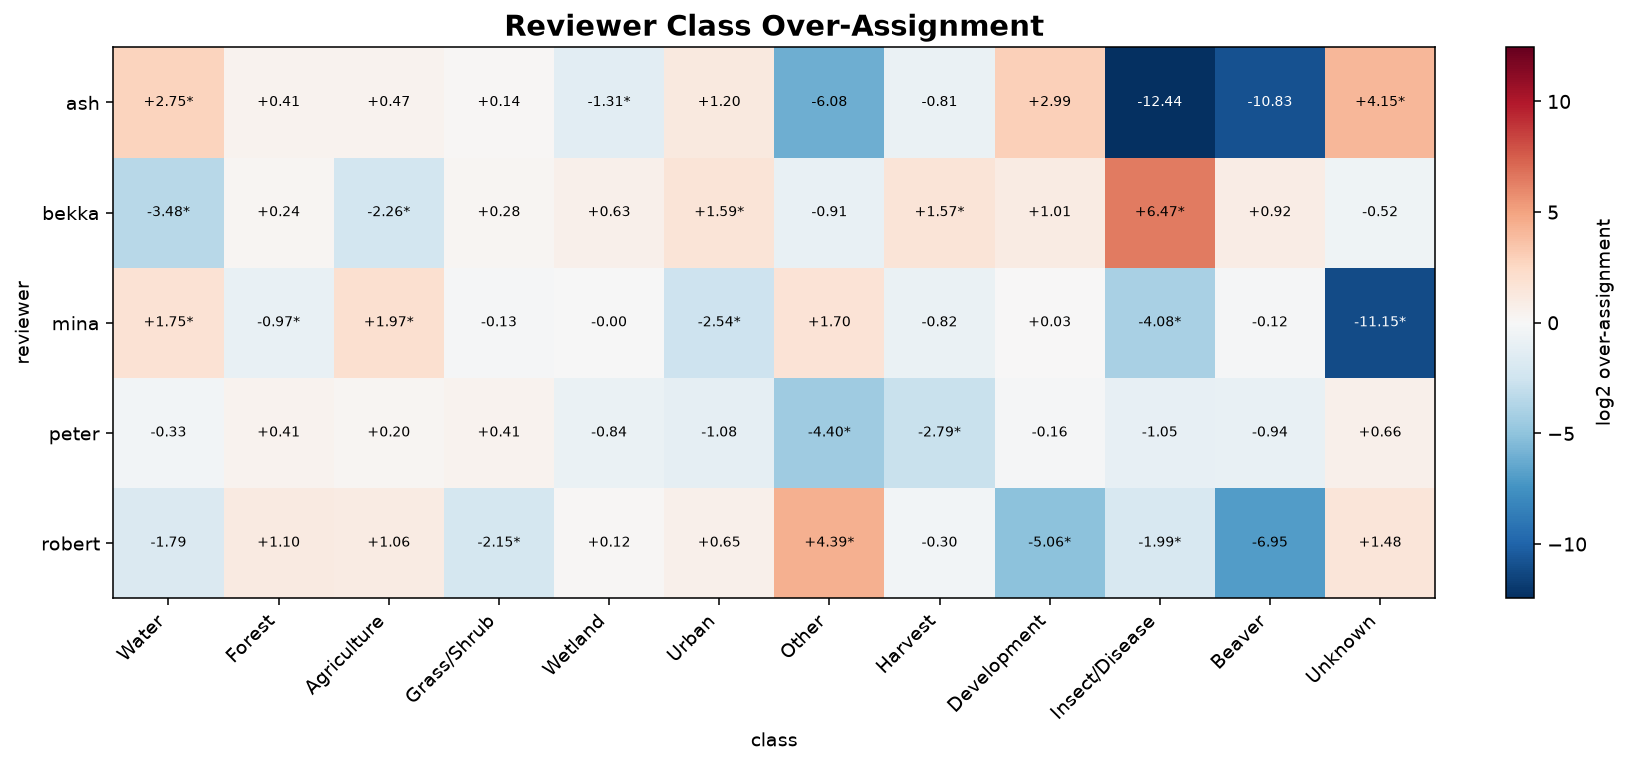
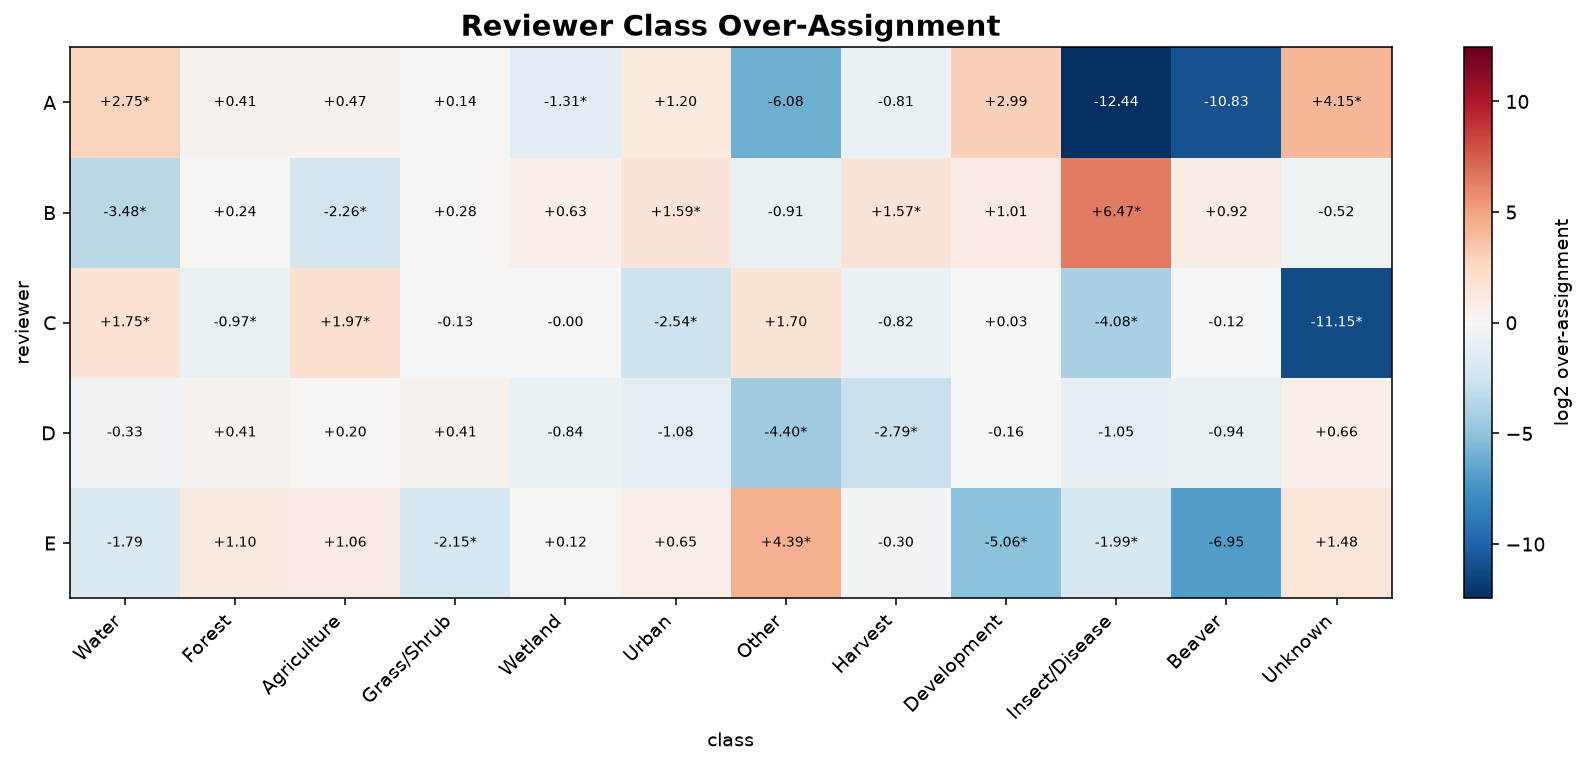
Combine figure 3.4 into a stacked A/B figure; anonymize reviewer heatmap
Combine the two disagreement-geometry panels into one stacked figure 3.4
(scripts/combine_figure_3_4.py): panel A (most contested class pairs) on top, panel
B (contested-patch area distribution) below, each labeled in the top-left corner.
The shape-complexity panel stays available as figure_3_4c. Wire the combine into
build_chapter3_named_figures.py and update the caption.

Anonymize the supplemental reviewer over-assignment heatmap: y-axis reviewer names
become letters A to E (alphabetical, matching figure 3.5's reviewer_letter_key.csv).

diff --git a/scripts/build_chapter3_named_figures.py b/scripts/build_chapter3_named_figures.py
@@ -67,7 +67,8 @@ SUPP = [
      "ten-class schema, with reliability thresholds at 0.50 and 0.70."),
     (f"{IA}/reviewer_overassignment_heatmap.png", "figure_S_reviewer_overassignment.png",
      "Heatmap of per-reviewer class over-assignment (diagnostic D4), showing which classes each "
-     "reviewer claims more or less than partners."),
+     "reviewer claims more or less than partners. Reviewers are anonymized to letters (see "
+     "reports/interpreter_agreement/geometry/reviewer_letter_key.csv)."),
     (f"{AB}/bias_vs_n_OA.png", "figure_S_bias_vs_n.png",
      "Mean sampled overall accuracy minus the census against sample size (v2, W=3), comparing simple "
      "random, stratified weighted, and stratified unweighted designs."),
@@ -152,11 +153,10 @@ MAIN_ORDER = [
      "b is the per-agent facets. The panels need manual assembly into one figure; they are not "
      "auto-composited."),
     ("3.3", ["figure_3_3_agreement_forest_5class.png"], ""),
-    ("3.4", ["figure_3_4a_contested_class_pairs.png", "figure_3_4b_area_ecdf.png",
-             "figure_3_4c_shape_index_ecdf.png"],
-     " Three-panel figure: panel a is the contested class pairs, panel b is the contested-patch area "
-     "ECDF, and panel c is the shape-index ECDF. The panels need manual assembly into one figure; "
-     "they are not auto-composited."),
+    ("3.4", ["figure_3_4_disagreement_geometry.png"],
+     " Combined two-panel figure (built by scripts/combine_figure_3_4.py): panel A is the most "
+     "contested class pairs, and panel B is the contested-patch area distribution. The "
+     "shape-complexity panel (figure_3_4c_shape_index_ecdf.png) is available separately."),
     ("3.5", ["figure_3_5_training_conflict_overlay.png"],
      " The figure shows the top three contested patches. Reviewers are anonymized to letters; the "
      "letter-to-reviewer key is kept in reports/interpreter_agreement/geometry/reviewer_letter_key.csv."),
@@ -218,3 +218,7 @@ with open(os.path.join(FIG, "chapter3_captions.md"), "w") as fh:
     fh.write("\n".join(lines))
 
 print(f"copied {len(copies)} file(s); {len(missing)} missing; wrote chapter3_captions.md -> {FIG}")
+
+# build the combined figure 3.4 (panels A and B stacked)
+import combine_figure_3_4  # noqa: E402
+combine_figure_3_4.main()

diff --git a/scripts/combine_figure_3_4.py b/scripts/combine_figure_3_4.py
@@ -1,0 +1,44 @@
+#!/usr/bin/env python3
+"""Combine the two Chapter 3 disagreement-geometry panels into one stacked figure 3.4:
+panel A (most contested class pairs) on top, panel B (contested-patch area distribution) below,
+each labeled in its top-left corner. This stacks the two already-rendered source images at a common
+width; it does not recompute anything.
+
+Run: python scripts/combine_figure_3_4.py
+Requires: matplotlib
+"""
+
+import os
+
+import matplotlib
+matplotlib.use("Agg")
+import matplotlib.pyplot as plt
+import matplotlib.image as mpimg
+
+ROOT = os.path.dirname(os.path.dirname(os.path.abspath(__file__)))
+PANEL_A = os.path.join(ROOT, "reports/interpreter_agreement/class_disagreement_top.png")
+PANEL_B = os.path.join(ROOT, "reports/interpreter_agreement/geometry/area_ecdf_focus.png")
+OUT = os.path.join(ROOT, "manuscript_formatting/figures/figure_3_4_disagreement_geometry.png")
+
+
+def main():
+    ia = mpimg.imread(PANEL_A)
+    ib = mpimg.imread(PANEL_B)
+    w = 10.0                                                   # figure width in inches
+    ha = w * ia.shape[0] / ia.shape[1]                         # panel heights from each image aspect
+    hb = w * ib.shape[0] / ib.shape[1]
+    fig = plt.figure(figsize=(w, ha + hb))
+    gs = fig.add_gridspec(2, 1, height_ratios=[ha, hb], hspace=0.03)
+    for cell, img, lab in [(gs[0], ia, "A."), (gs[1], ib, "B.")]:
+        ax = fig.add_subplot(cell)
+        ax.imshow(img)
+        ax.axis("off")
+        ax.text(0.005, 0.99, lab, transform=ax.transAxes, fontsize=20, fontweight="bold",
+                va="top", ha="left")
+    fig.savefig(OUT, dpi=200, bbox_inches="tight")
+    plt.close(fig)
+    print(f"wrote {OUT}")
+
+
+if __name__ == "__main__":
+    main()

diff --git a/scripts/reviewer_directional_asymmetry.py b/scripts/reviewer_directional_asymmetry.py
@@ -166,7 +166,9 @@ def heatmap(df, reviewers, path):
     fig, ax = plt.subplots(figsize=(1.0 * len(col_order) + 2, 0.7 * len(piv) + 2))
     im = ax.imshow(M, cmap="RdBu_r", vmin=-vmax, vmax=vmax)
     ax.set_xticks(range(len(col_order))); ax.set_xticklabels(col_order, rotation=45, ha="right")
-    ax.set_yticks(range(len(piv.index))); ax.set_yticklabels(piv.index)
+    # anonymize reviewers to letters (alphabetical), matching figure 3.5's reviewer_letter_key.csv
+    letters = {rev: chr(ord("A") + i) for i, rev in enumerate(sorted(piv.index))}
+    ax.set_yticks(range(len(piv.index))); ax.set_yticklabels([letters[r] for r in piv.index])
     for i in range(M.shape[0]):
         for j in range(M.shape[1]):
             if not np.isnan(M[i, j]):

diff --git a/manuscript_formatting/figures/chapter3_captions.md b/manuscript_formatting/figures/chapter3_captions.md
@@ -20,9 +20,9 @@ File: figure_3_3_agreement_forest_5class.png
 Per-class inter-interpreter agreement F1 with 95% cluster bootstrap confidence intervals (five-class collapse), with reliability thresholds at 0.50 and 0.70. The change classes on which the classifiers of Chapter 2 performed worst are the same classes on which independent interpreters least agree.
 
 ### Figure 3.4
-Files: figure_3_4a_contested_class_pairs.png; figure_3_4b_area_ecdf.png; figure_3_4c_shape_index_ecdf.png
+File: figure_3_4_disagreement_geometry.png
 
-Geometry of inter-interpreter disagreement. The most contested class pairs by disagreeing pixels are dominated by forest-wetland and grass/shrub-wetland; the area-weighted distributions of contested-patch size and shape complexity show that the disagreed-upon area resides in large, geometrically complex zones rather than thin boundary strips. Three-panel figure: panel a is the contested class pairs, panel b is the contested-patch area ECDF, and panel c is the shape-index ECDF. The panels need manual assembly into one figure; they are not auto-composited.
+Geometry of inter-interpreter disagreement. The most contested class pairs by disagreeing pixels are dominated by forest-wetland and grass/shrub-wetland; the area-weighted distributions of contested-patch size and shape complexity show that the disagreed-upon area resides in large, geometrically complex zones rather than thin boundary strips. Combined two-panel figure (built by scripts/combine_figure_3_4.py): panel A is the most contested class pairs, and panel B is the contested-patch area distribution. The shape-complexity panel (figure_3_4c_shape_index_ecdf.png) is available separately.
 
 ### Figure 3.5
 File: figure_3_5_training_conflict_overlay.png
@@ -54,7 +54,7 @@ Fraction of Monte Carlo iterations in which a class is entirely absent from the 
 Provisional supplementary set; a final renumber pass will assign S numbers.
 
 - `figure_S_agreement_forest_10class.png`: Per-class inter-interpreter agreement F1 with 95% cluster bootstrap confidence intervals, ten-class schema, with reliability thresholds at 0.50 and 0.70.
-- `figure_S_reviewer_overassignment.png`: Heatmap of per-reviewer class over-assignment (diagnostic D4), showing which classes each reviewer claims more or less than partners.
+- `figure_S_reviewer_overassignment.png`: Heatmap of per-reviewer class over-assignment (diagnostic D4), showing which classes each reviewer claims more or less than partners. Reviewers are anonymized to letters (see reports/interpreter_agreement/geometry/reviewer_letter_key.csv).
 - `figure_S_bias_vs_n.png`: Mean sampled overall accuracy minus the census against sample size (v2, W=3), comparing simple random, stratified weighted, and stratified unweighted designs.
 - `figure_S_strat_efficiency.png`: Per-class ratio of stratified to simple-random sampling standard deviation (v2, W=1, largest n); below one means stratification reduces variance for that class.
 - `figure_S_d_corr_vs_n.png`: Approach D per-class correlation of map versus reference area proportions against sample size (v2, W=5, simple random), one line per class.
